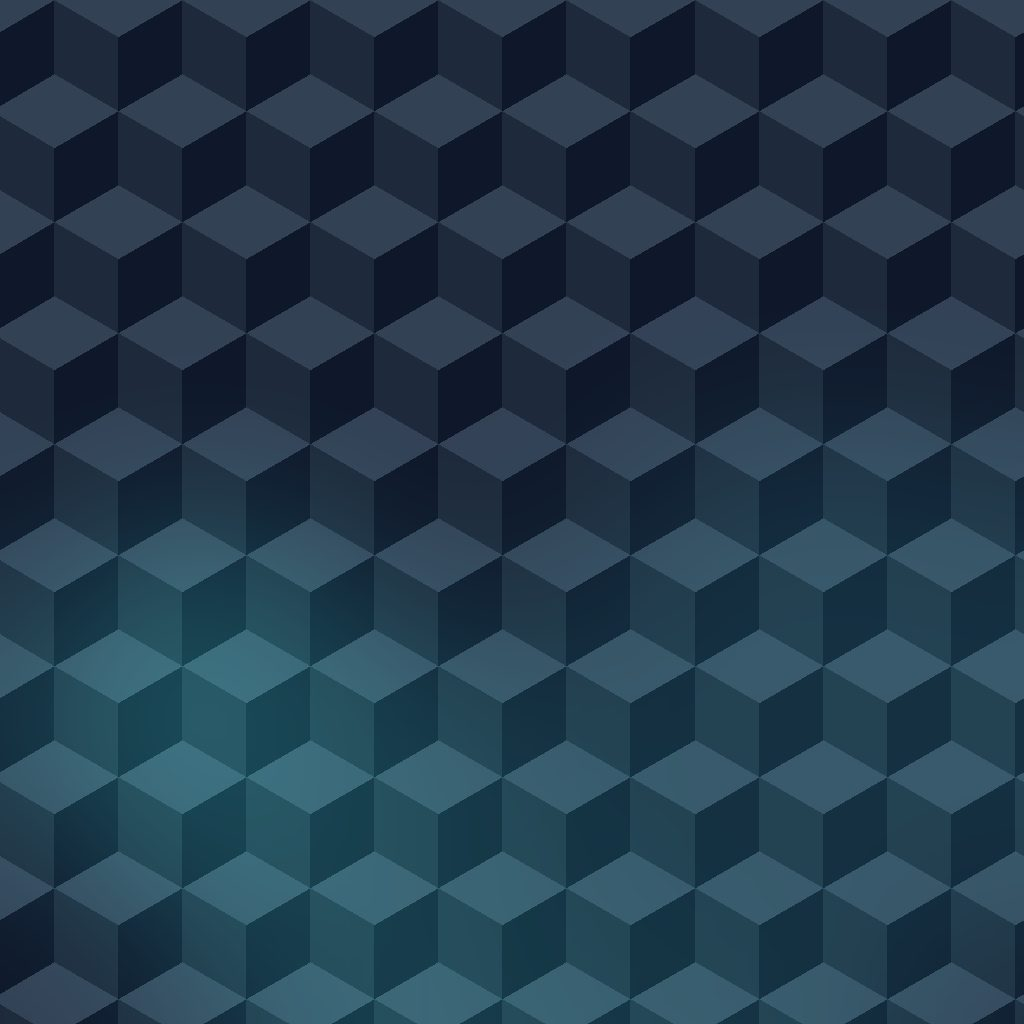
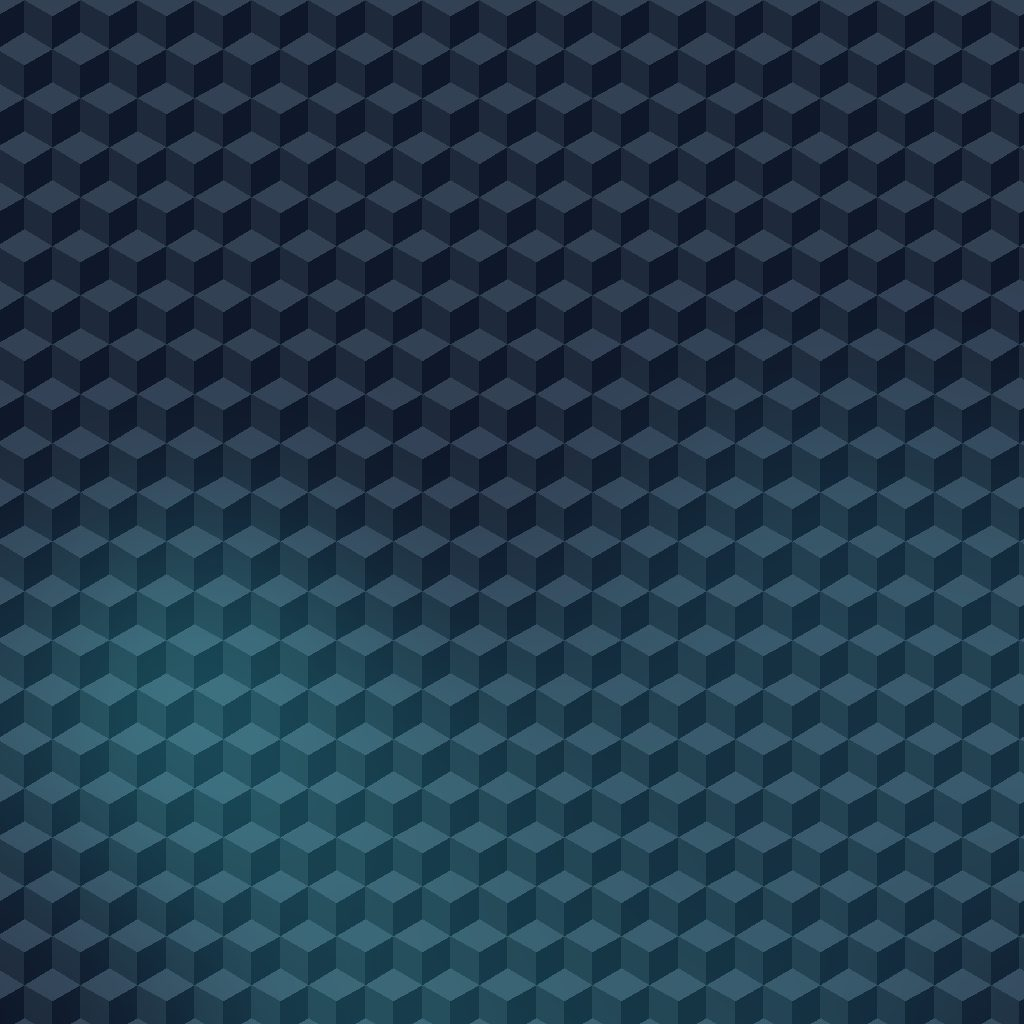
Latar halaman masuk kembali ke ukuran semula
Tekstur yang dipantulkan permukaan cair (PR #689) memakai kubus ber-jari-jari
74px - hanya +-8 kubus melintang. Tekstur 1024px itu diregangkan ke lebar
panel, jadi kubusnya tampil +-2,5x lebih besar daripada login-pattern aslinya
dan latar terasa membesar.

Ukuran kubus kini DITURUNKAN dari pola CSS-nya, bukan ditebak: konstanta
SEL_POLA_CSS (40px, sama dengan background-size di index.css) dan
LEBAR_PANEL_ACUAN (720px = separuh layar 1440) membuat kaitannya tersurat,
sehingga kerapatannya tak perlu ditebak ulang tiap kali teksturnya dibuat
ulang. Hasilnya +-18 kubus melintang - sama seperti sebelum efek cair ada.

Verifikasi: tekstur dibuat ulang lewat scripts/buat_tekstur_login.py, yarn
build sukses, halaman diperiksa di Chromium ber-WebGL.

Claude-Session: https://claude.ai/code/session_01FvAvKZuN51s4HjwPr8bdPP

diff --git a/scripts/buat_tekstur_login.py b/scripts/buat_tekstur_login.py
@@ -21,6 +21,8 @@ import pathlib
 from PIL import Image, ImageChops, ImageDraw, ImageFilter
 
 SISI = 1024                      # tekstur persegi; dipetakan ke bidang cair
+SEL_POLA_CSS = 40                # lebar satu sel `login-pattern` di index.css
+LEBAR_PANEL_ACUAN = 720          # panel kiri pada layar 1440 (setengah lebar)
 KELIR_DASAR = (15, 23, 42)       # slate-900 — sama dengan bg panel kiri
 KELIR_KUBUS = (30, 41, 59)       # slate-800
 KELIR_SISI = (51, 65, 85)        # slate-700
@@ -41,10 +43,20 @@ def gambar_kubus(d: ImageDraw.ImageDraw, cx: float, cy: float, r: float) -> None
 
 
 def lapisan_kubus() -> Image.Image:
-    """Hamparan kubus rapat; baris ganjil digeser setengah langkah."""
+    """Hamparan kubus rapat; baris ganjil digeser setengah langkah.
+
+    UKURAN KUBUS mengikuti `login-pattern` di `index.css` — sel 40 px pada
+    panel selebar ±720 px, jadi sekitar 18 kubus melintang. Percobaan pertama
+    memakai r=74 (hanya ±8 kubus melintang): tekstur 1024 px itu diregangkan
+    ke lebar panel, sehingga kubusnya tampil ±2,5x lebih besar daripada pola
+    aslinya dan latar terasa membesar. `LEBAR_PANEL_ACUAN` membuat kaitan itu
+    tersurat — bukan angka ajaib yang ditebak ulang tiap kali.
+    """
     img = Image.new("RGB", (SISI, SISI), KELIR_DASAR)
     d = ImageDraw.Draw(img)
-    r = 74.0
+    # Lebar sel pola CSS (40 px) diskalakan dari panel acuan ke lebar tekstur.
+    lebar_sel = SEL_POLA_CSS * (SISI / LEBAR_PANEL_ACUAN)
+    r = lebar_sel / math.sqrt(3)   # langkah_x = r*√3 = lebar satu kubus
     langkah_x = r * math.sqrt(3)
     langkah_y = r * 1.5
     baris, y = 0, -r

diff --git a/CHANGELOG.md b/CHANGELOG.md
@@ -67,6 +67,21 @@ membengkakkannya jadi pita putih 127×36 px di sudut peta.
 
 ---
 
+## [#697] Latar halaman masuk kembali ke ukuran semula — 2026-08-02
+
+Tekstur yang dipantulkan permukaan cair (PR #689) memakai kubus ber-jari-jari
+74 px — hanya ±8 kubus melintang. Tekstur 1024 px itu diregangkan ke lebar
+panel, jadi kubusnya tampil **±2,5x lebih besar** daripada `login-pattern`
+aslinya dan latar terasa membesar.
+
+Ukuran kubus kini **diturunkan dari pola CSS-nya**, bukan ditebak: konstanta
+`SEL_POLA_CSS` (40 px, sama dengan `background-size` di `index.css`) dan
+`LEBAR_PANEL_ACUAN` (720 px = separuh layar 1440) membuat kaitannya tersurat,
+sehingga kerapatannya tak perlu ditebak ulang tiap kali teksturnya dibuat
+ulang. Hasilnya ±18 kubus melintang — sama seperti sebelum efek cair ada.
+
+---
+
 ## [#696] Efek cair asli di halaman masuk — pustakanya dibundel, bukan dari CDN — 2026-08-02
 
 Panel kiri layar masuk kini memakai efek **logam cair `liquid1`** yang asli
